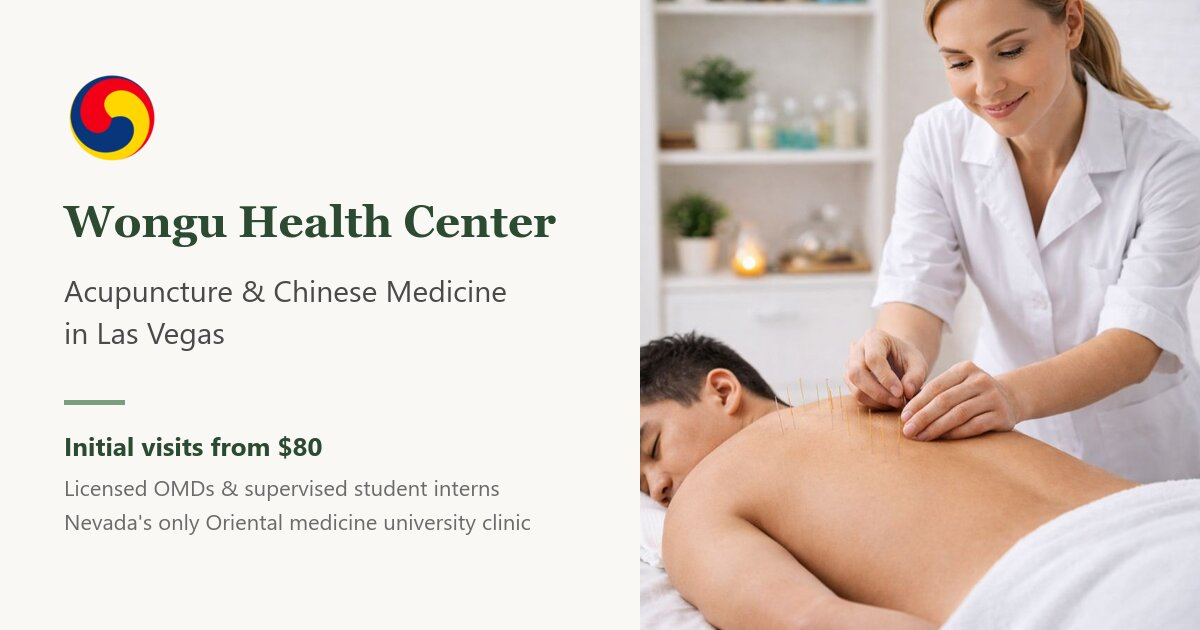
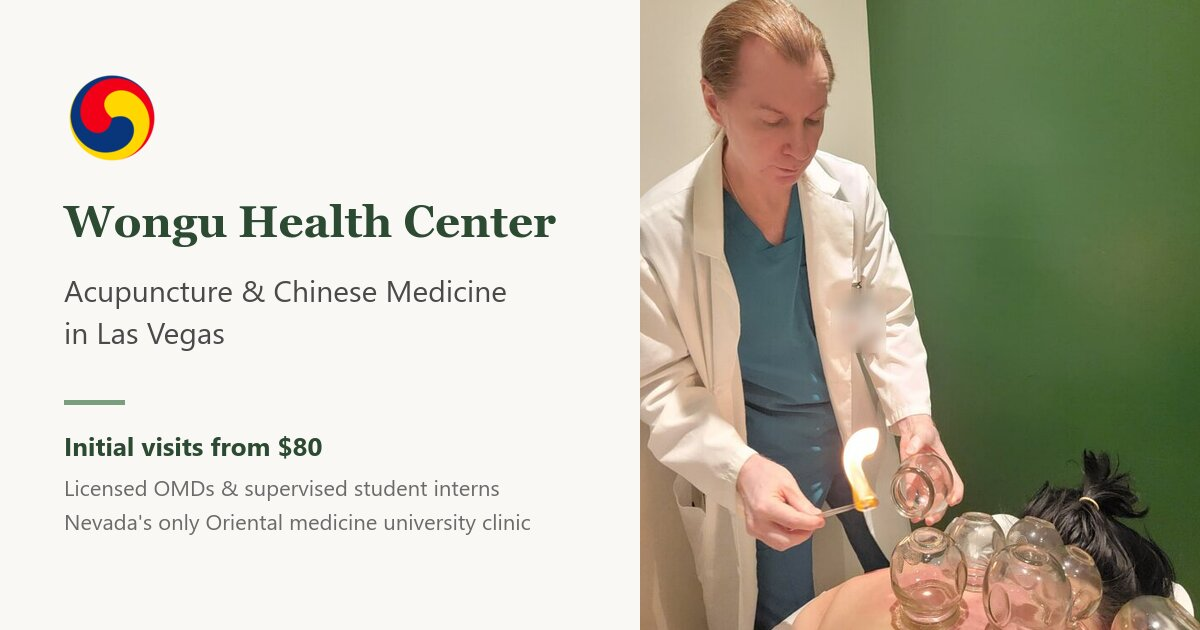
Replace the stock hero photo with a real fire-cupping photo
- Homepage hero now shows a Wongu student intern performing fire
  cupping in a clinic treatment room (badge blurred, metadata stripped)
- Link-preview card rebuilt with the same photo
- On tablets/phones the hero photo is square and framed on the
  treatment instead of a thin 16:7 strip

diff --git a/index.html b/index.html
@@ -20,7 +20,7 @@
   <link rel="preconnect" href="https://fonts.googleapis.com">
   <link rel="preconnect" href="https://fonts.gstatic.com" crossorigin>
   <link rel="stylesheet" href="https://fonts.googleapis.com/css2?family=Cormorant+Garant:wght@400;500;600&family=Figtree:wght@400;500;600;700;800&display=swap">
-  <link rel="stylesheet" href="/styles.css?v=26">
+  <link rel="stylesheet" href="/styles.css?v=27">
   <!-- Google Analytics 4 (loaded after page load by analytics.js) -->
   <script defer src="/analytics.js"></script>
   <!-- /build:head-assets -->
@@ -254,7 +254,7 @@
 
         <div class="hero-image">
           <div class="hero-image-main">
-            <picture><source type="image/webp" srcset="/images/hero-clinic-480.webp 480w, /images/hero-clinic.webp 800w" sizes="(max-width: 1024px) calc(100vw - 48px), 560px"><img src="/images/hero-clinic.jpg" width="800" height="1000" alt="Licensed acupuncturist providing treatment at Wongu Health Center in Las Vegas" decoding="async" fetchpriority="high"></picture>
+            <picture><source type="image/webp" srcset="/images/hero-cupping-480.webp 480w, /images/hero-cupping.webp 664w" sizes="(max-width: 1024px) calc(100vw - 48px), 560px"><img src="/images/hero-cupping.jpg" width="664" height="830" alt="A Wongu student intern performing traditional fire cupping in a treatment room at Wongu Health Center" decoding="async" fetchpriority="high"></picture>
 
           </div>
           <div class="hero-float-card card-1">

diff --git a/about.html b/about.html
@@ -19,7 +19,7 @@
   <link rel="preconnect" href="https://fonts.googleapis.com">
   <link rel="preconnect" href="https://fonts.gstatic.com" crossorigin>
   <link rel="stylesheet" href="https://fonts.googleapis.com/css2?family=Cormorant+Garant:wght@400;500;600&family=Figtree:wght@400;500;600;700;800&display=swap">
-  <link rel="stylesheet" href="/styles.css?v=26">
+  <link rel="stylesheet" href="/styles.css?v=27">
   <!-- Google Analytics 4 (loaded after page load by analytics.js) -->
   <script defer src="/analytics.js"></script>
   <script type="application/ld+json">

diff --git a/acupuncture-las-vegas.html b/acupuncture-las-vegas.html
@@ -25,7 +25,7 @@
   <link rel="preconnect" href="https://fonts.googleapis.com">
   <link rel="preconnect" href="https://fonts.gstatic.com" crossorigin>
   <link rel="stylesheet" href="https://fonts.googleapis.com/css2?family=Cormorant+Garant:wght@400;500;600&family=Figtree:wght@400;500;600;700;800&display=swap">
-  <link rel="stylesheet" href="/styles.css?v=26">
+  <link rel="stylesheet" href="/styles.css?v=27">
   <!-- Google Analytics 4 (loaded after page load by analytics.js) -->
   <script defer src="/analytics.js"></script>
   <script type="application/ld+json">

diff --git a/blog-chinese-herbs.html b/blog-chinese-herbs.html
@@ -18,7 +18,7 @@
   <link rel="preconnect" href="https://fonts.googleapis.com">
   <link rel="preconnect" href="https://fonts.gstatic.com" crossorigin>
   <link rel="stylesheet" href="https://fonts.googleapis.com/css2?family=Cormorant+Garant:wght@400;500;600&family=Figtree:wght@400;500;600;700;800&display=swap">
-  <link rel="stylesheet" href="/styles.css?v=26">
+  <link rel="stylesheet" href="/styles.css?v=27">
   <!-- Google Analytics 4 (loaded after page load by analytics.js) -->
   <script defer src="/analytics.js"></script>
   <script type="application/ld+json">

diff --git a/blog-stress-acupuncture.html b/blog-stress-acupuncture.html
@@ -18,7 +18,7 @@
   <link rel="preconnect" href="https://fonts.googleapis.com">
   <link rel="preconnect" href="https://fonts.gstatic.com" crossorigin>
   <link rel="stylesheet" href="https://fonts.googleapis.com/css2?family=Cormorant+Garant:wght@400;500;600&family=Figtree:wght@400;500;600;700;800&display=swap">
-  <link rel="stylesheet" href="/styles.css?v=26">
+  <link rel="stylesheet" href="/styles.css?v=27">
   <!-- Google Analytics 4 (loaded after page load by analytics.js) -->
   <script defer src="/analytics.js"></script>
   <script type="application/ld+json">

diff --git a/blog.html b/blog.html
@@ -18,7 +18,7 @@
   <link rel="preconnect" href="https://fonts.googleapis.com">
   <link rel="preconnect" href="https://fonts.gstatic.com" crossorigin>
   <link rel="stylesheet" href="https://fonts.googleapis.com/css2?family=Cormorant+Garant:wght@400;500;600&family=Figtree:wght@400;500;600;700;800&display=swap">
-  <link rel="stylesheet" href="/styles.css?v=26">
+  <link rel="stylesheet" href="/styles.css?v=27">
   <!-- Google Analytics 4 (loaded after page load by analytics.js) -->
   <script defer src="/analytics.js"></script>
   <script type="application/ld+json">

diff --git a/chinese-herbal-medicine-las-vegas.html b/chinese-herbal-medicine-las-vegas.html
@@ -25,7 +25,7 @@
   <link rel="preconnect" href="https://fonts.googleapis.com">
   <link rel="preconnect" href="https://fonts.gstatic.com" crossorigin>
   <link rel="stylesheet" href="https://fonts.googleapis.com/css2?family=Cormorant+Garant:wght@400;500;600&family=Figtree:wght@400;500;600;700;800&display=swap">
-  <link rel="stylesheet" href="/styles.css?v=26">
+  <link rel="stylesheet" href="/styles.css?v=27">
   <!-- Google Analytics 4 (loaded after page load by analytics.js) -->
   <script defer src="/analytics.js"></script>
   <script type="application/ld+json">

diff --git a/conditions.html b/conditions.html
@@ -25,7 +25,7 @@
   <link rel="preconnect" href="https://fonts.googleapis.com">
   <link rel="preconnect" href="https://fonts.gstatic.com" crossorigin>
   <link rel="stylesheet" href="https://fonts.googleapis.com/css2?family=Cormorant+Garant:wght@400;500;600&family=Figtree:wght@400;500;600;700;800&display=swap">
-  <link rel="stylesheet" href="/styles.css?v=26">
+  <link rel="stylesheet" href="/styles.css?v=27">
   <!-- Google Analytics 4 (loaded after page load by analytics.js) -->
   <script defer src="/analytics.js"></script>
   <script type="application/ld+json">

diff --git a/conditions/back-pain.html b/conditions/back-pain.html
@@ -25,7 +25,7 @@
   <link rel="preconnect" href="https://fonts.googleapis.com">
   <link rel="preconnect" href="https://fonts.gstatic.com" crossorigin>
   <link rel="stylesheet" href="https://fonts.googleapis.com/css2?family=Cormorant+Garant:wght@400;500;600&family=Figtree:wght@400;500;600;700;800&display=swap">
-  <link rel="stylesheet" href="/styles.css?v=26">
+  <link rel="stylesheet" href="/styles.css?v=27">
   <!-- Google Analytics 4 (loaded after page load by analytics.js) -->
   <script defer src="/analytics.js"></script>
   <script type="application/ld+json">

diff --git a/conditions/headaches-migraines.html b/conditions/headaches-migraines.html
@@ -25,7 +25,7 @@
   <link rel="preconnect" href="https://fonts.googleapis.com">
   <link rel="preconnect" href="https://fonts.gstatic.com" crossorigin>
   <link rel="stylesheet" href="https://fonts.googleapis.com/css2?family=Cormorant+Garant:wght@400;500;600&family=Figtree:wght@400;500;600;700;800&display=swap">
-  <link rel="stylesheet" href="/styles.css?v=26">
+  <link rel="stylesheet" href="/styles.css?v=27">
   <!-- Google Analytics 4 (loaded after page load by analytics.js) -->
   <script defer src="/analytics.js"></script>
   <script type="application/ld+json">

diff --git a/conditions/sciatica.html b/conditions/sciatica.html
@@ -25,7 +25,7 @@
   <link rel="preconnect" href="https://fonts.googleapis.com">
   <link rel="preconnect" href="https://fonts.gstatic.com" crossorigin>
   <link rel="stylesheet" href="https://fonts.googleapis.com/css2?family=Cormorant+Garant:wght@400;500;600&family=Figtree:wght@400;500;600;700;800&display=swap">
-  <link rel="stylesheet" href="/styles.css?v=26">
+  <link rel="stylesheet" href="/styles.css?v=27">
   <!-- Google Analytics 4 (loaded after page load by analytics.js) -->
   <script defer src="/analytics.js"></script>
   <script type="application/ld+json">

diff --git a/contact.html b/contact.html
@@ -19,7 +19,7 @@
   <link rel="preconnect" href="https://fonts.googleapis.com">
   <link rel="preconnect" href="https://fonts.gstatic.com" crossorigin>
   <link rel="stylesheet" href="https://fonts.googleapis.com/css2?family=Cormorant+Garant:wght@400;500;600&family=Figtree:wght@400;500;600;700;800&display=swap">
-  <link rel="stylesheet" href="/styles.css?v=26">
+  <link rel="stylesheet" href="/styles.css?v=27">
   <!-- Google Analytics 4 (loaded after page load by analytics.js) -->
   <script defer src="/analytics.js"></script>
   <script type="application/ld+json">
